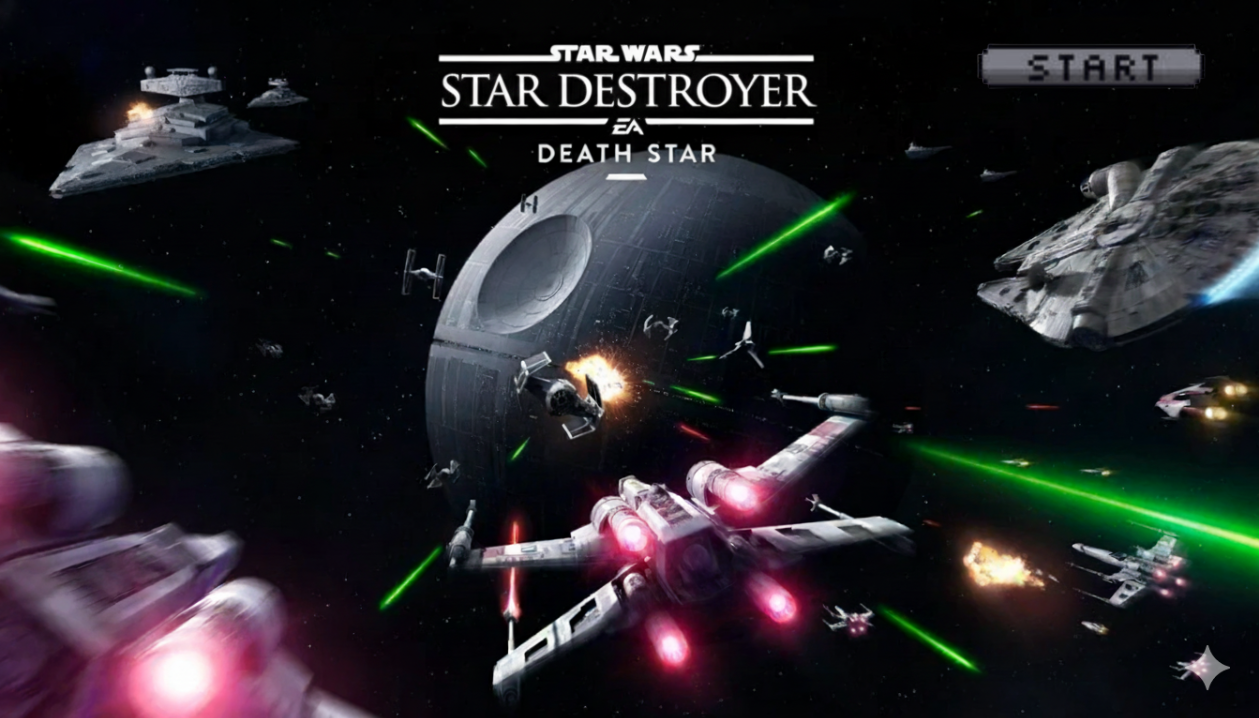
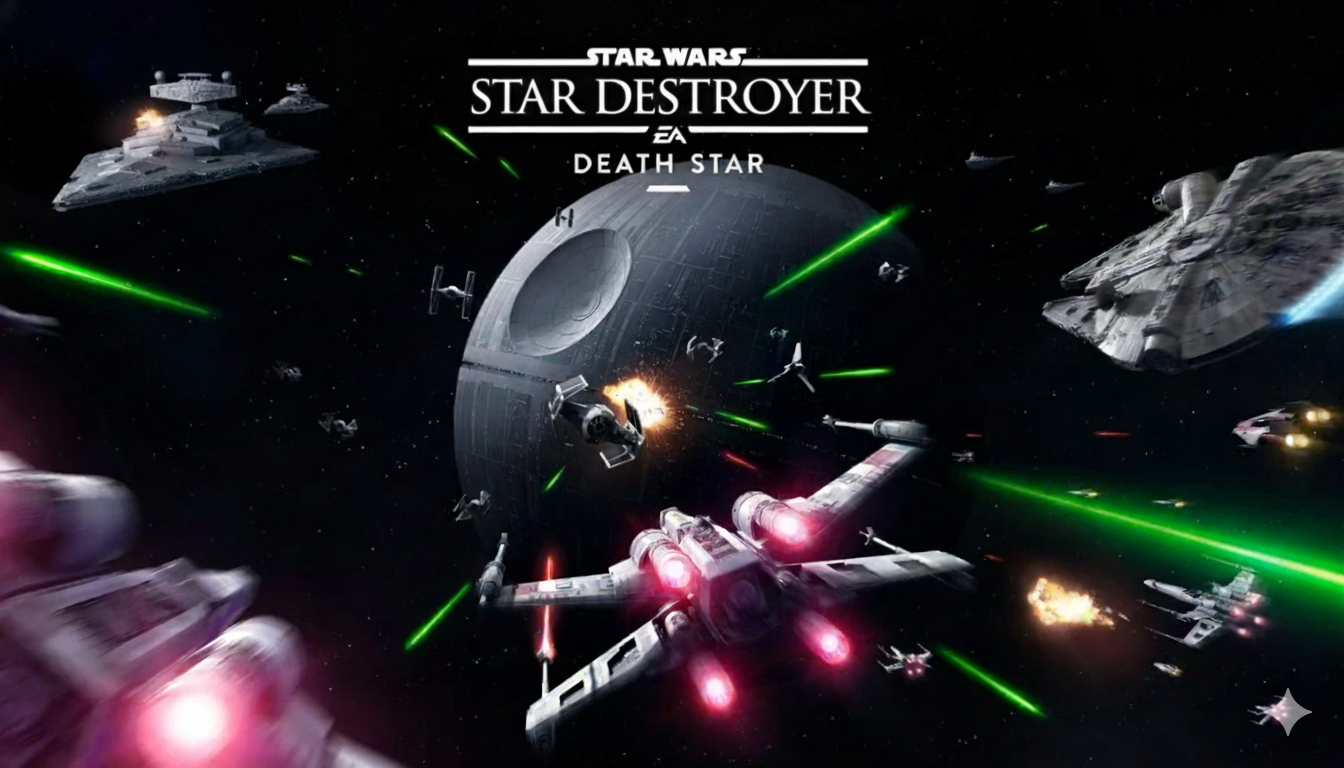
versione finale della schermata inziale

diff --git a/SchermataIniziale.java b/SchermataIniziale.java
@@ -1,17 +1,39 @@
 import java.awt.CardLayout;
+import java.awt.Color;
 import java.awt.Dimension;
+import java.awt.Graphics;
 import java.awt.event.ActionEvent;
 import java.awt.event.ActionListener;
+import java.awt.image.BufferedImage;
+import java.io.File;
+import java.io.IOException;
+
+import javax.imageio.ImageIO;
 import javax.swing.*;
 
 public class SchermataIniziale  extends JPanel {
     CardLayout cl;
     JPanel contenitore;
     JButton bottone;
+    BufferedImage image;
     public SchermataIniziale(CardLayout cl, JPanel contenitore) {
         this.cl = cl;
         this.contenitore = contenitore;
-        bottone = new JButton();
+        this.setLayout(null);
+        try {
+            image = ImageIO.read(new File("alt f4.png"));
+        } catch (IOException e) {
+            e.printStackTrace();
+        }
+        ImageIcon icon = new ImageIcon(getClass().getResource("Start_button.png"));
+        bottone = new JButton(icon);
+        bottone.setBounds(920, 62, bottone.getPreferredSize().width, bottone.getPreferredSize().height);  
+        bottone.setBackground(Color.BLACK);
+        bottone.setBorderPainted(false);
+        bottone.setOpaque(false);
+        bottone.setContentAreaFilled(false);
+        bottone.setFocusPainted(false);
+
         this.add(bottone);
         
         bottone.addActionListener(new ActionListener() {
@@ -23,6 +45,11 @@ public class SchermataIniziale  extends JPanel {
                 frame.setSize(new Dimension(400 , 800));
             }
         });
+    }
+    @Override
+    protected void paintComponent(Graphics g) {
+        super.paintComponent(g);
+        g.drawImage(image, 0, 0, null);
     }
 }
 

diff --git a/GUI.java b/GUI.java
@@ -19,7 +19,7 @@ public class GUI extends Thread{
         frame.setDefaultCloseOperation(JFrame.EXIT_ON_CLOSE);
         frame.setResizable(false);
         frame.add(contenitore);
-        frame.setSize(300, 300);
+        frame.setSize(1259, 718);
 
 
     }
